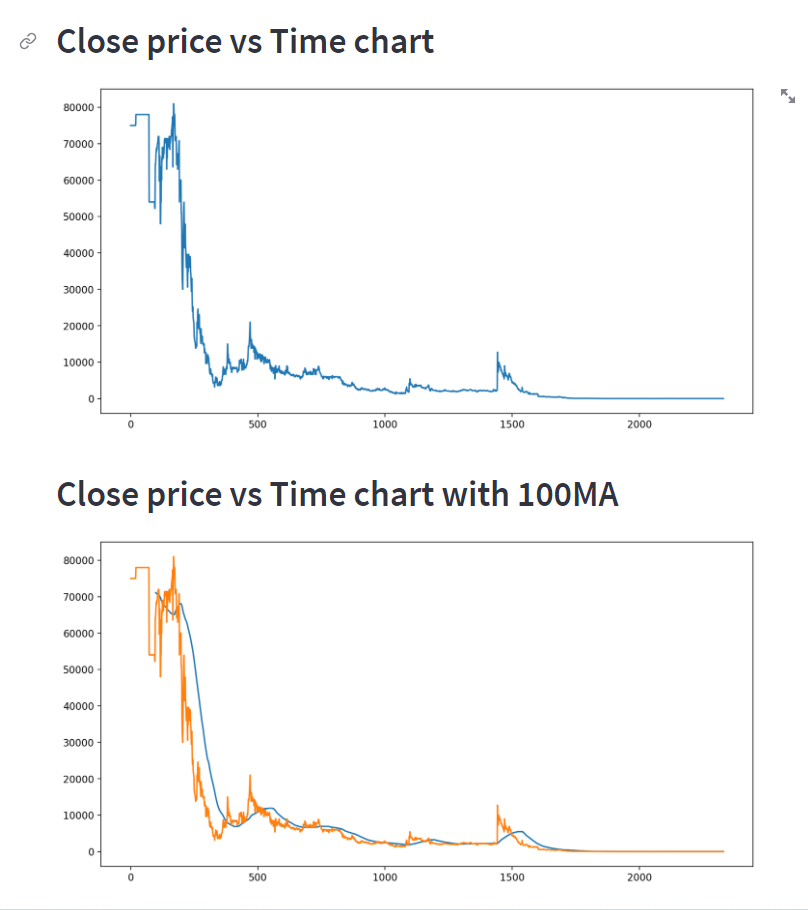
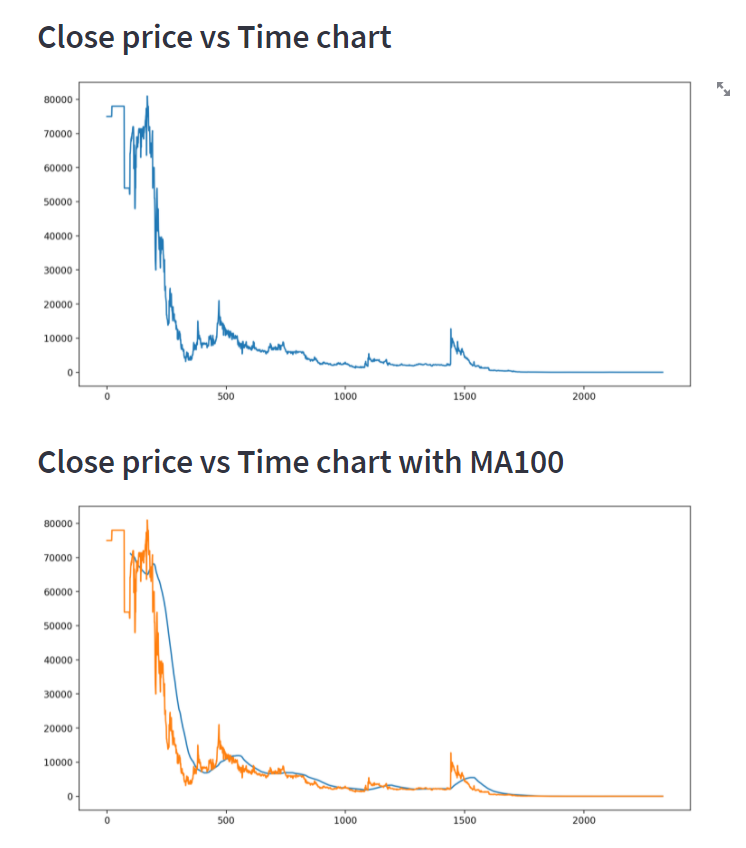
Update image

Changed region(s): [[0.0308, 0.5212, 0.9558, 0.9811], [0.0617, 0.092, 0.9866, 0.4906], [0.0308, 0.0307, 0.555, 0.0613]]

diff --git a/main.py b/main.py
@@ -35,14 +35,14 @@ def progress(data, start, end):
     plt.plot(data.Close)
     st.pyplot(fig)
 
-    st.header("Close price vs Time chart with 100MA")
+    st.header("Close price vs Time chart with MA100")
     ma100 = data.Open.rolling(100).mean()
     fig = plt.figure(figsize=(12, 6))
     plt.plot(ma100)
     plt.plot(data.Close)
     st.pyplot(fig)
 
-    st.header("Close price vs Time chart with 100MA & 200MA")
+    st.header("Close price vs Time chart with MA100 & MA200")
     ma100 = data.Open.rolling(100).mean()
     ma200 = data.Open.rolling(200).mean()
     fig = plt.figure(figsize=(12, 6))
